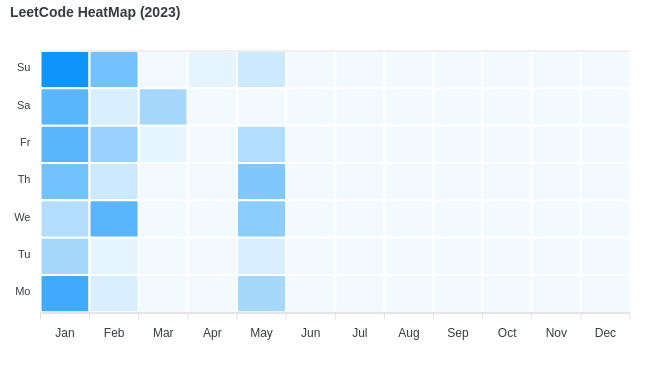
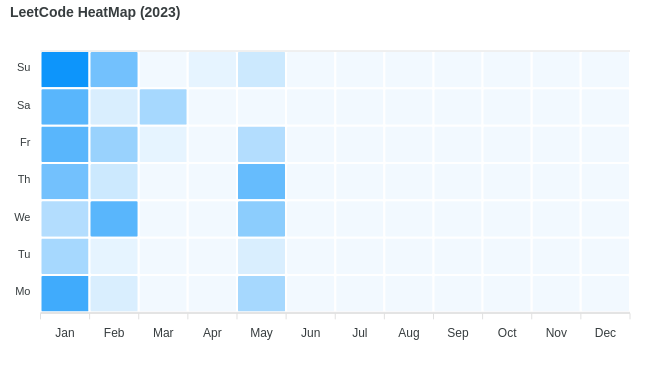
update heatmap.png

Changed region(s): [[0.3692, 0.4521, 0.4615, 0.5425]]

diff --git a/README.md b/README.md
@@ -4,7 +4,7 @@
 
 Collection of LeetCode questions to ace the coding interview! - Created using [LeetHub](https://github.com/QasimWani/LeetHub)
 
-> Questions solved 345 uniq: 133
+> Questions solved 347 uniq: 135
 
 ## Contribution 
 
